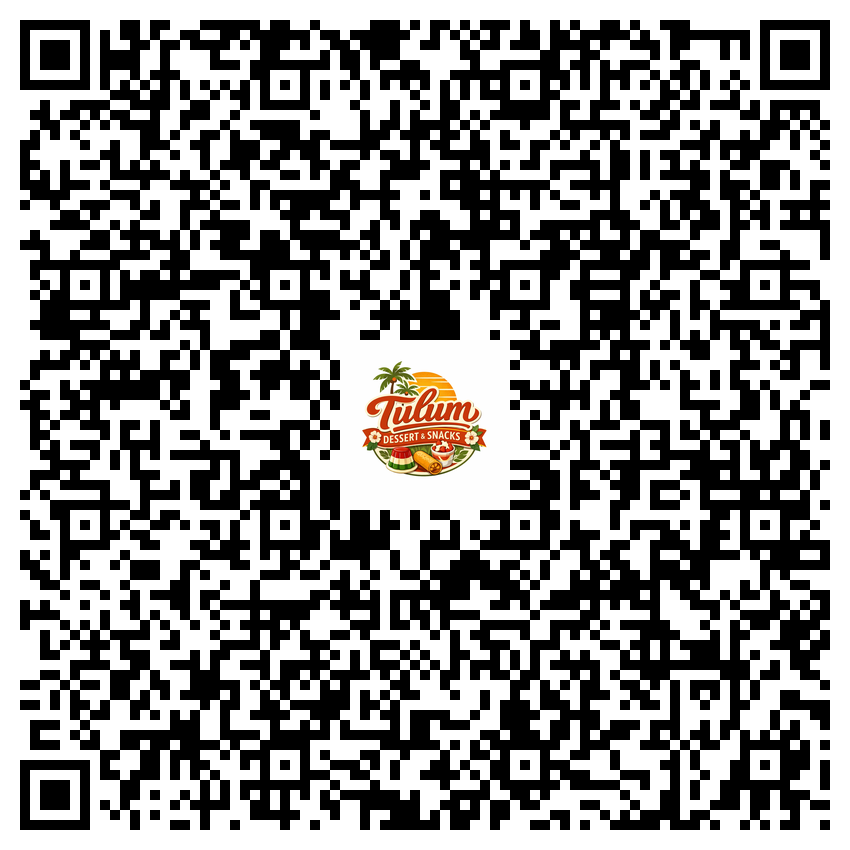
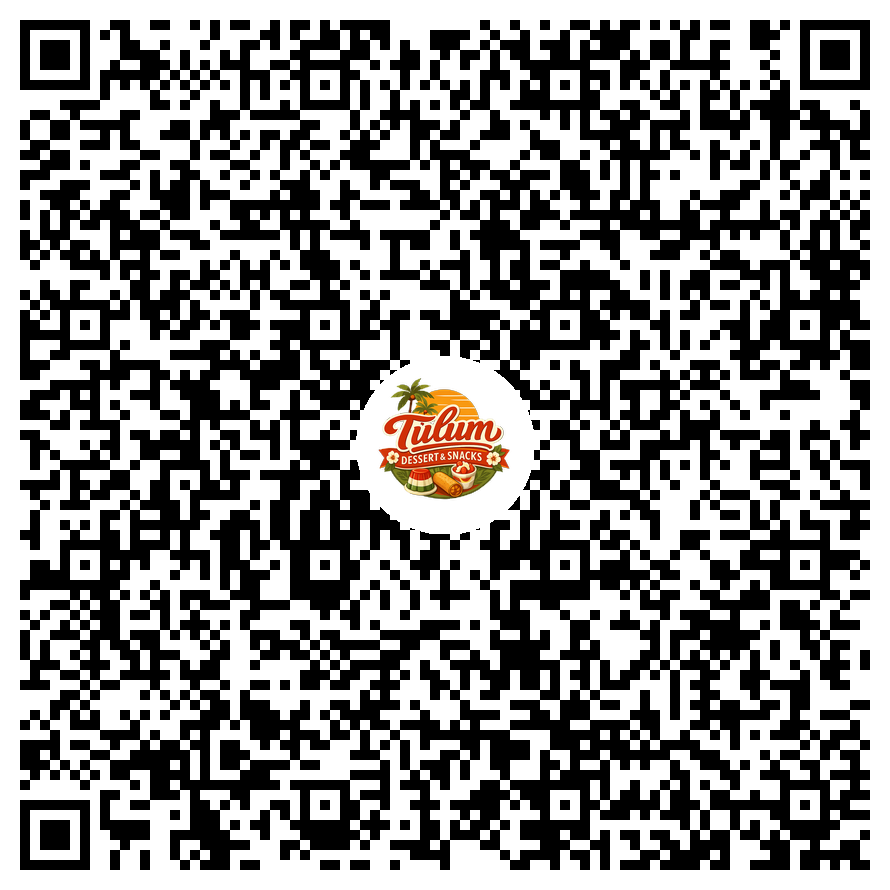
Update QR code to include both phone numbers

diff --git a/scripts/generate_qr.py b/scripts/generate_qr.py
@@ -8,16 +8,18 @@ if not os.path.isdir(ASSETS):
     os.makedirs(ASSETS, exist_ok=True)
 
 name = 'Tulum Dessert & Snacks'
-phone = '+1 514-937-7754'
+phones = ['+1 514-937-7754', '+1 514-638-8399']
 address = '7070 Henri Julien Ave, Montreal, Quebec H2S 3A3, Canada'
 hours = '8:00 AM - 6:00 PM, Todos los días'
 website = ''
 
+# Generate vCard with both phone numbers
+phone_lines = '\n'.join([f'TEL;TYPE=WORK,VOICE:{p}' for p in phones])
 vcard = f'''BEGIN:VCARD
 VERSION:3.0
 FN:{name}
 ORG:{name}
-TEL;TYPE=WORK,VOICE:{phone}
+{phone_lines}
 ADR;TYPE=WORK:;;{address}
 NOTE:{hours}
 END:VCARD
